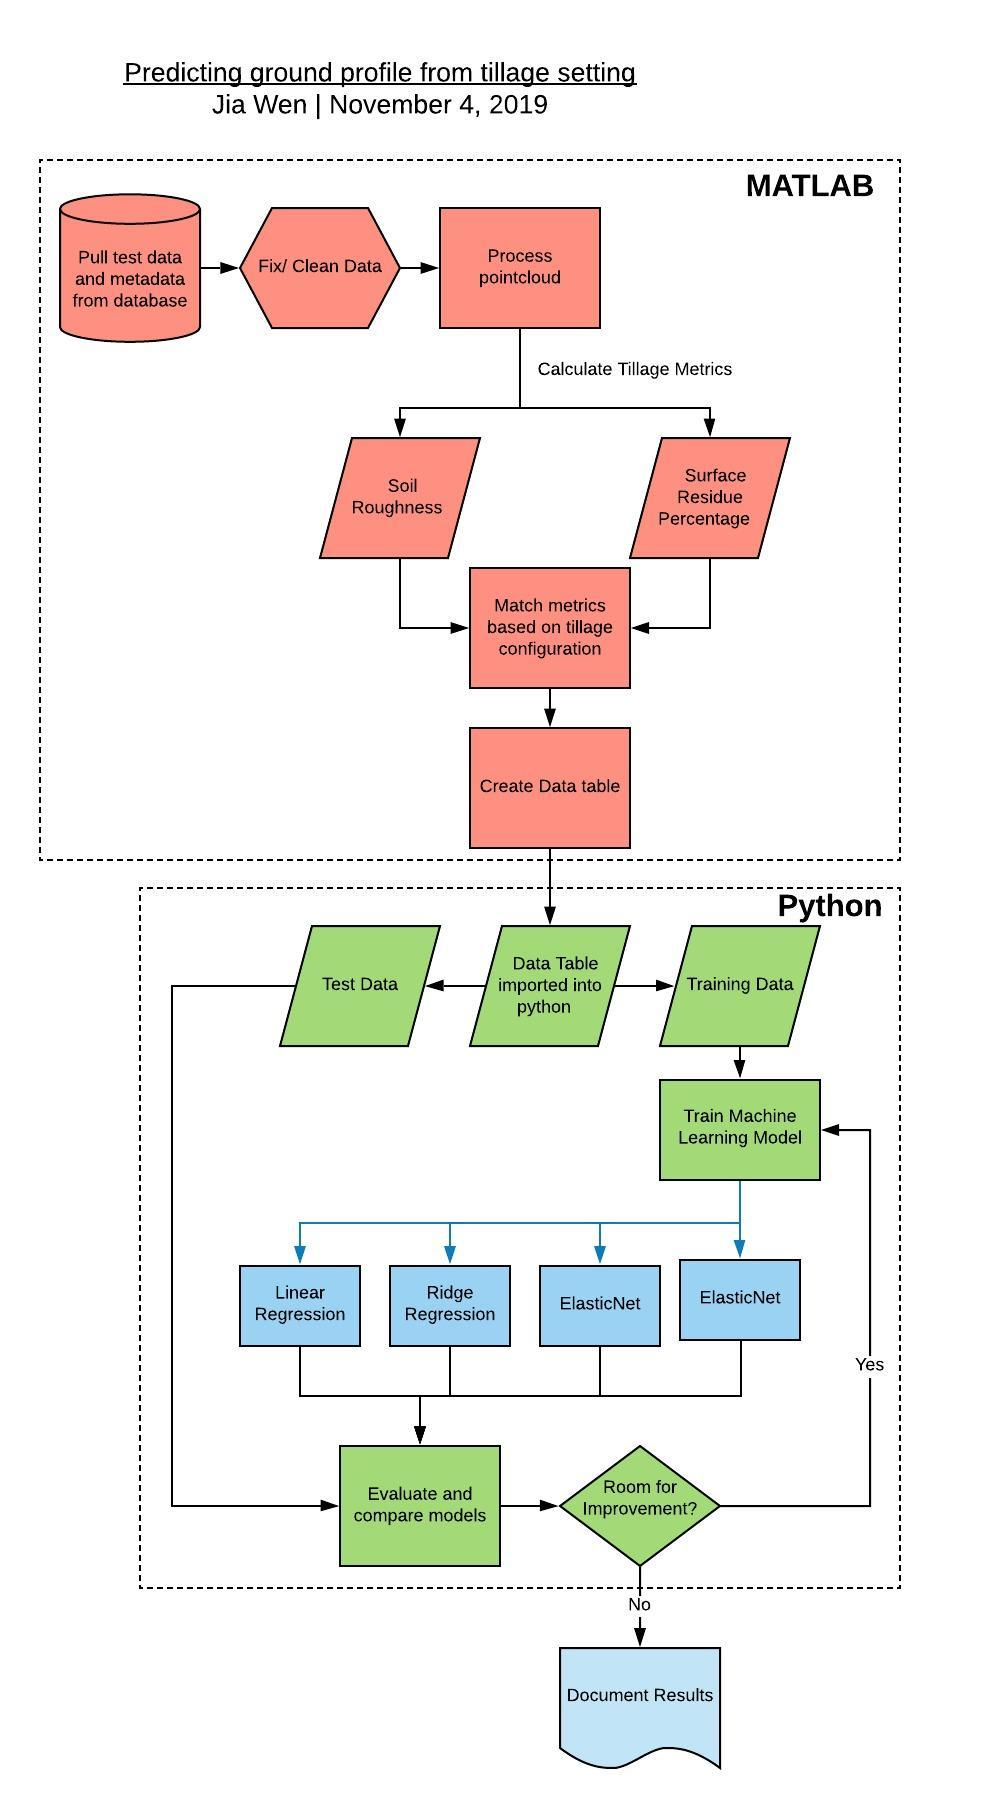
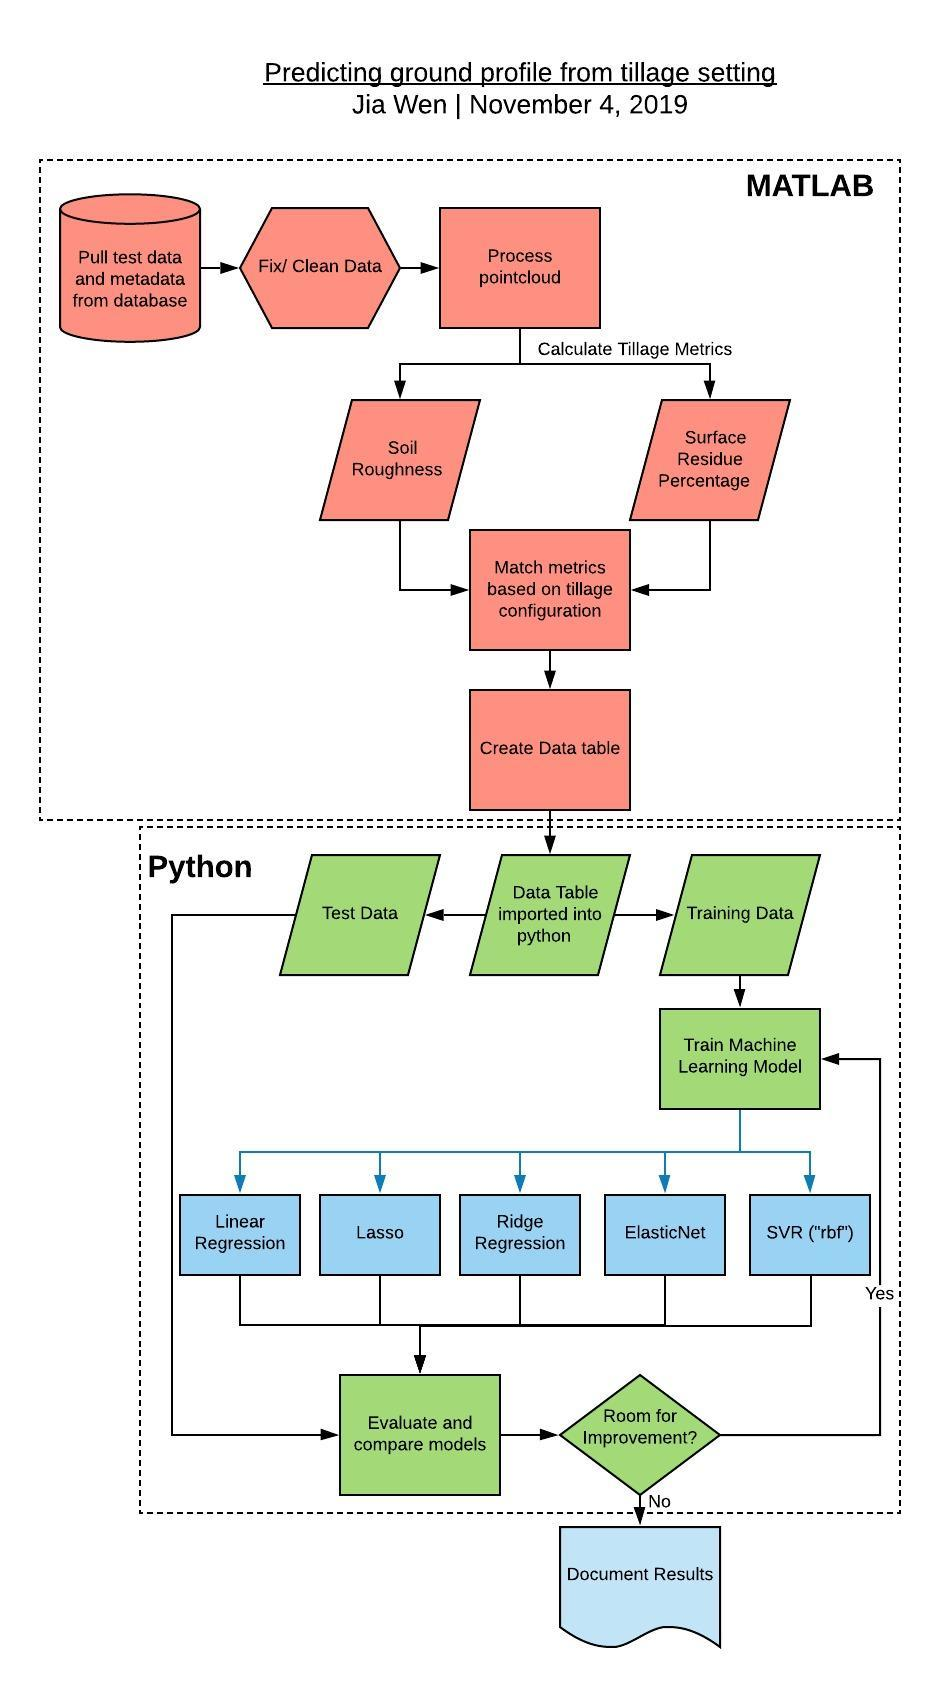
project update

diff --git a/ABE516Project.html b/ABE516Project.html
@@ -33,7 +33,7 @@
 						<header class="major">
 							<h2>ABE 516x Project</h2>
 						</header>
-						<p>Description<br />This is the Final project for ABE516x. I will be applying what I've leant in the Fall 2019 sememster on data processing and machine learning to analyze LiDAR point cloud data I have collected. </p>
+						<p>Description<br />This is the Final project for ABE516x. I will be applying what I've leant in the Fall 2019 sememster on data processing and machine learning to process and analyze LiDAR point cloud data I have collected. </p>
 						<!--ul class="actions">
 							<li><a href="#" class="button">Learn More</a></li>
 						</ul-->
@@ -43,15 +43,96 @@
 				<section id="two">
 					<div class="row">  
 						<article class="max work-item">
+
 							<h3>Project Goal</h3>
-							<p>My hope for this project is to gain more understanding on the relationship between different Tillage settings on a ripper and the resulting soil profile. 
-							</br>I want to see if I can predict tillage setting based on the data collected and alternatively, predict resulting soil profile metric base on tillage setting.</p>
-							<h3>Workflow</h3>
-							<a href="assets/pics/ABE516Flowchart.jpeg" target="_blank" class="image fit thumb"><img src="assets/pics/ABE516Flowchart.jpeg" alt="" /></a>
+							<p>My hope for this project is to gain more understanding on the relationship between different Tillage settings on a ripper tool and the resulting soil profile. 
+							</br>I want to see if I can predict the resulting soil roughness and soil surface residue based on tillage settings.</p>
+						</br>
+
 							<h3>Objectives</h3>
-							<p>Find out if I can predict tillage settings base on LiDAR scan.</p>
-							<p>Investigate What learning models would be best for the LiDAR data I have.</p>
-							<p>Find out correlation between specific tillage settings and resulting soil measurement.</p>
+							<p>-Find out if I can predict tillage metrics base on tillage tool configuration.</p>
+							<p>-Investigate what regression models would be best for the LiDAR data I have.</p>
+							<p>-Find out correlation between specific tillage settings and resulting soil measurement.</p>
+						</br>
+						
+							<h3>Workflow</h3>
+						</article>
+						</br>
+						<article class="off-3 col-7 col-12-xsmall work-item">
+							<a href="assets/pics/ABE516Flowchart.jpeg" target="_blank" class="image fit thumb"><img src="assets/pics/ABE516Flowchart.jpeg" alt=""/></a>
+						</article>
+						</br>
+						<article class="max work-item">
+							<h3>Background and measurement terms</h3> 
+							<p>Data was collected from a LiDAR mounted perpendicular to the ground on a tillage implement.
+							A point cloud of the soil surface after tillage is generated by taking scans when the tillage implement is pulled by the tractor as shown in the image below.</p>
+						</article>
+						<article class="off-3 col-9 col-18-xsmall work-item">
+								<a href="assets/pics/tillageSetup.jpg" target="_blank" class="image fit thumb"><img src="assets/pics/tillageSetup.jpg" alt=""/></a>
+						</article>
+						</br>
+						<article class="max work-item">
+						</br>
+						<p>A good measurement of soil profile is important in developing a closed-loop control system for optimizing the tillage process.</p>
+							<p>How the field is tilled can affect erosion, fertilizer runoff, soil nutrient and soil structure of the field so it is important to be
+								able to measure and control the soil profile created from tillage.
+							</p>
+						</br>
+						<h5><b>Measured Metrics:</b></h5>
+							<p>1) Soil roughness metric - A measure of how uneven or flat the soil surface is. Will be further explained in the data processing section.</p>
+						</br>
+							<p>2) Soil surface residue percentage - Percentage of soil covered by soil residue measured based on LiDAR RSSI</p>
+						</br>
+							<p>3) RSSI - <a href="https://www.sick.com/us/en/glossary/rssi/g/p555555" target="_blank">Relative Signal Strength Index</a></p>
+						</br>
+							<p>4) Soil surface residue - Organic matter present on top of the soil. An example is circled in red in the image below</p>
+						</article>
+						<article class="off-3 col-9 col-12-xsmall work-item">
+							<a href="assets/pics/surfResEx.png" target="_blank" class="image fit thumb"><img src="assets/pics/surfResEx.png" alt=""/></a>
+						</article>
+						
+						<article class="max work-item">
+						</br>
+							<h5><b>Factors:</b></h5>
+							<p>1) disk_in - Depth set in inches of front disk on the tillage implement.</p>
+						</br>
+							<p>2) closingDisk - Depth set in inches of back disk on the tillage implement, -6 is out of the ground.</p>   
+						</br>
+							<p>3) basket - True false on whether or not basket was off the ground, 1 means baskets were off the bround and 0 means baskets were on the ground.</p> 
+						</br>
+							<p>4) speed_mph - Forward velocity in mph.</p> 
+						</br>
+						</article>	
+						
+						<article class="off-3 col-9 col-12-xsmall work-item">
+								<p>Tillage implement segments</p>
+								<a href="assets/pics/tillageSegments.jpg" target="_blank" class="image fit thumb"><img src="assets/pics/tillageSegments.jpg" alt=""/></a>
+						</article>
+						
+						<article class="max work-item">
+							<h3>Data processing</h3>			
+							<p>Data processing was done in MATLAB. Data and exact steps to convert point cloud data into a roughness metric and surface residue percentage will not be provided
+								as there might be proprietary implecations with that. I will however give a brief overview of how metrics were obtained.</br></p>
+							<h5>Roughness</h5>
+							<p>Rougness is quantified by the <a href="https://gisgeography.com/root-mean-square-error-rmse-gis" target="_blank">root mean squared error</a> calculated for 
+								each individual scan. Mean of root mean sqaured error over 700 consecutive scans is then taken to obtain a roughness metric for a specific set of factors.
+							</p>
+						</br>
+							<h5>Surface Residue</h5>
+							<p>Surface Residue quantified using k-mean clustering from a point cloud data set where both surface residue and soil were present. 
+								A full write up of the clustering process can be found <a href="https://github.com/jwlRepo/516x/tree/master/module3/kmeanResidue" target="_blank">here</a>. 
+							</br>resPercent represents the residue percentage estimate from a -1.5m to 1.5m scan width on the back of the tillage implement.
+							</br>resPercentFull represents the residue percentage estimate from a -3.5m to 3.5m scan width which is the full width of the tillage implement.
+						</br>
+							Resulting data table can be found <a href="https://github.com/jwlRepo/516x/blob/master/Project/tillageTestSummaryResult.csv">here</a>
+							</p>
+						</br>
+						<h3>Statistical analysis</h3>>
+						<h3>Regression models</h3>
+						<p>4 regression models were used to try and decribe </p>
+						</br>
+						<h3>Guided task</h3>
+						<p>Guided task for linear regession can be found  <a href="https://github.com/jwlRepo/516x/blob/master/Project/task.ipynb">here</a> </p>
 						</article>
 					</div>
 				</section>

diff --git a/assets/css/main.css b/assets/css/main.css
@@ -2126,7 +2126,7 @@ input, select, textarea {
 		.image.fit {
 			display: block;
 			margin: 0 0 2em 0;
-			width: 100%;
+			width: 85%;
 		}
 
 			.image.fit img {
